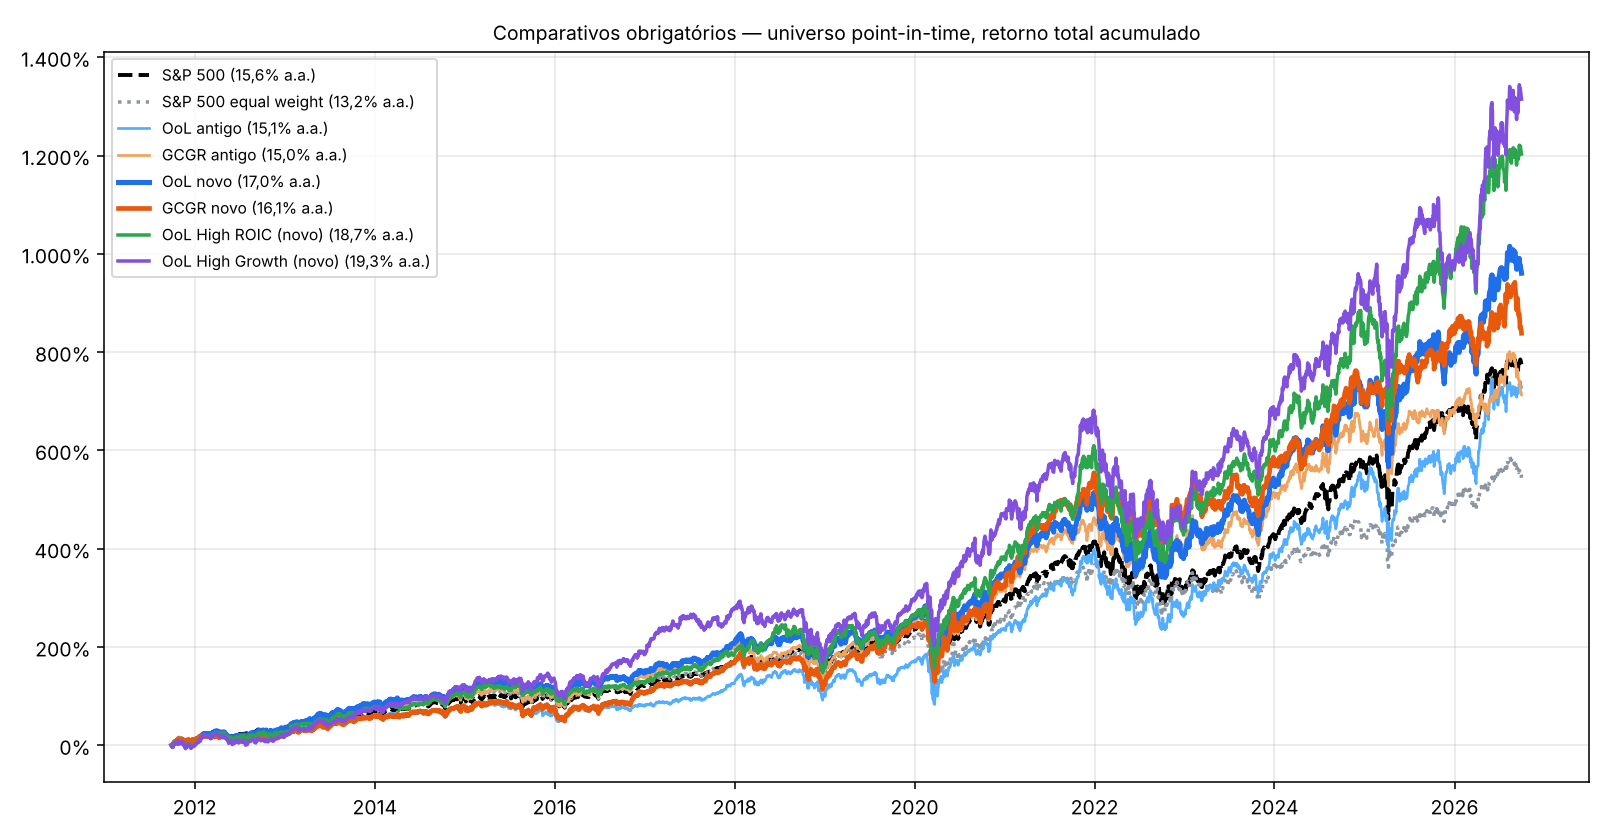
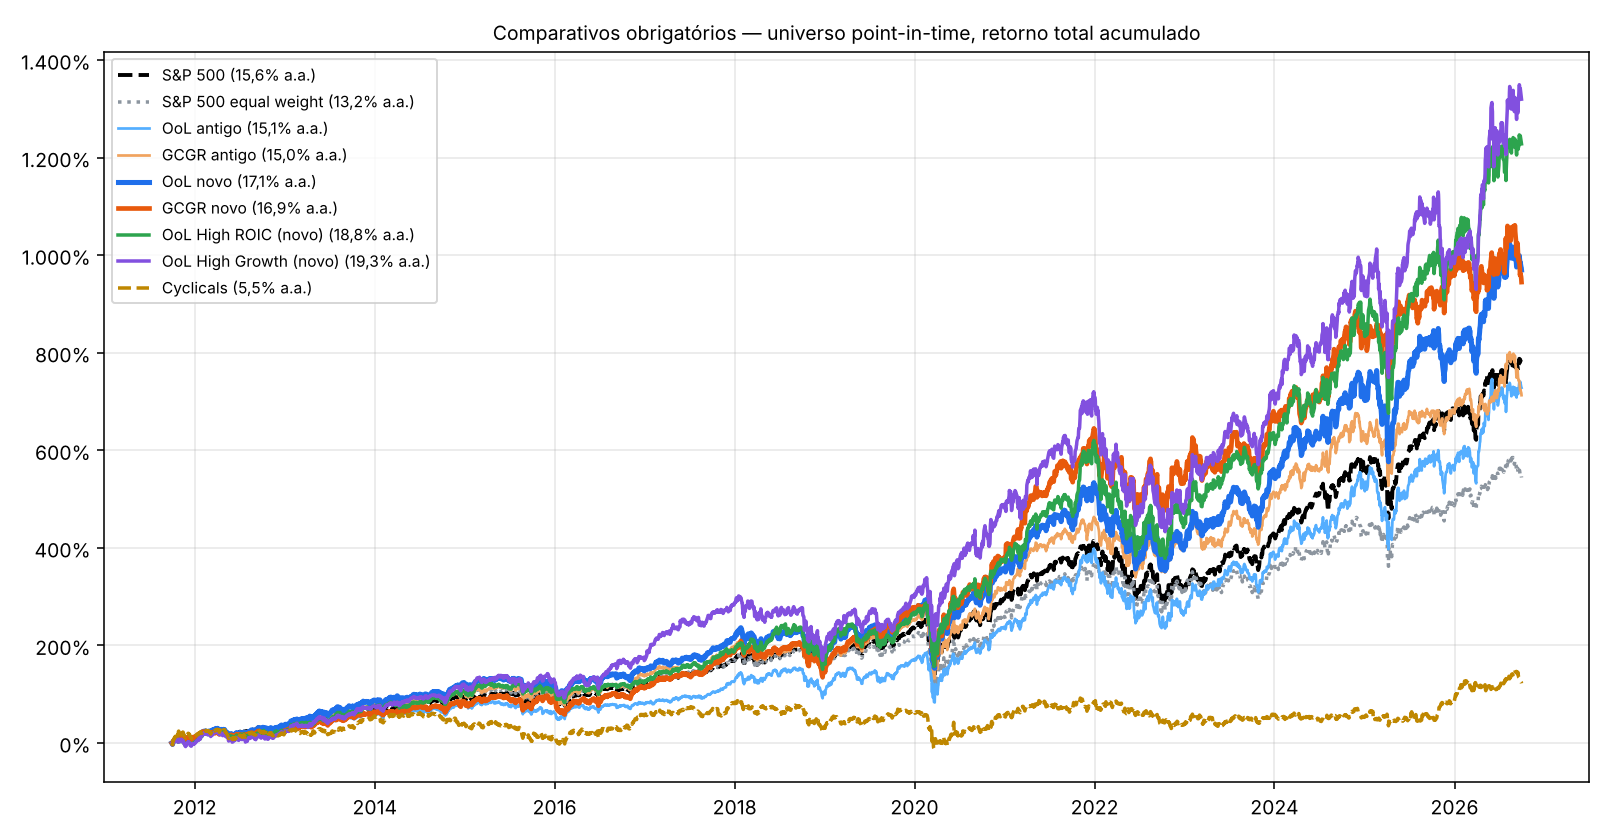
Fixa opcao B como definicao do 'novo' (excecoes a regua de ciclicos) e registra no protocolo
Claude-Session: https://claude.ai/code/session_0163Rqzt5kBig7h4xGh44EtX

diff --git a/price_tracker/backtest/ciclicos.py b/price_tracker/backtest/ciclicos.py
@@ -43,6 +43,9 @@ GROUPS = {'Media': {'Advertising', 'Publishing', 'Cable & Satellite', 'Broadcast
           'Specialized REITs': {'Other Specialized REITs', 'Timber REITs', 'Data Center REITs', 'Self-Storage REITs', 'Telecom Tower REITs'}}
 SUB2GROUP = {sub: g for g, subs in GROUPS.items() for sub in subs}
 DEFENSIVE_SECTORS = {'Consumer Staples', 'Utilities'}
+# Decisao do usuario (2026-11-10, opcao B): passam na regua, mas o ROIC oscila por motivos que nao sao ciclo
+# (pandemia, saida de prejuizo, vencimento de patente); voltam para a OoL/GCGR. Escolha feita olhando o retorno de 2012-2026.
+NOT_CYCLICAL = {'Hotels, Resorts & Cruise Lines', 'Movies & Entertainment', 'Biotechnology', 'Automobile Manufacturers', 'Diversified Chemicals'}
 MULT, MIN_COLLAPSES = 2.0, 2
 
 
@@ -101,7 +104,7 @@ def cyclical_industries():
     p = D / 'ciclicos.csv'
     if not p.exists(): build()
     S = pd.read_csv(p)
-    return set(S[S.ciclico].industry)
+    return set(S[S.ciclico].industry) - NOT_CYCLICAL
 
 
 if __name__ == '__main__':

diff --git a/price_tracker/backtest/benchmarks.py b/price_tracker/backtest/benchmarks.py
@@ -1,7 +1,7 @@
 """Comparativos obrigatorios de toda analise de desempenho (instrucao permanente do usuario, 2026-11-10):
 S&P 500, S&P 500 equal weight, OoL antigo, GCGR antigo, OoL novo, GCGR novo, OoL High ROIC (novo), OoL High Growth (novo).
 Antigo = cortes originais (ROIC 20%/10%, zROIC 0,7). Novo = esboco (ROIC 12%/10%), sem zROIC, sem vestuario e sem subsetores ciclicos
-(regua de ciclicos.py); as acoes de subsetores ciclicos que seriam OoL ou GCGR vao para a classe Cyclicals (desde 2026-11-10).
+(regua de ciclicos.py, menos as excecoes NOT_CYCLICAL); as acoes de subsetores ciclicos que seriam OoL ou GCGR vao para a classe Cyclicals (desde 2026-11-10).
 Universo point-in-time, ROIC oficial (corrigido em 2026-11-10), equal weight, rebalanceamento trimestral.
 Uso: from benchmarks import load_benchmarks, bench_table, bench_plot"""
 import sys, pathlib

diff --git a/price_tracker/PROTOCOLO.md b/price_tracker/PROTOCOLO.md
@@ -84,3 +84,11 @@ amostra documentado na literatura), além de custos e do resultado do teste de l
   o imobilizado de concessionárias (`PublicUtilitiesPropertyPlantAndEquipmentNet`) e de REITs (`RealEstateInvestmentPropertyNet`) não era
   lido; Entergy tinha imobilizado de US$ 0,2–0,5 bi (real ≈ US$ 50 bi) e ROIC de 140–370%. 67 empresas tiveram os dados da SEC rebaixados.
   Todos os testes point-in-time foram refeitos depois disso. Achado de exploração, não de confirmação.
+- 2026-11-10 — **Definição "novo" (exploratória, para testar no Japão sem ajuste):** esboço (ROIC 12%/10%), sem zROIC, sem vestuário/calçados e sem
+  subsetores cíclicos. Régua de cíclico (só fundamentos, histórico completo do ROIC, mediana do subsetor): queda média ≥ 2× a dos defensivos (30%) e
+  ≥ 2 colapsos. Exceções escolhidas pelo usuário depois de ver o retorno (opção B): hotéis/cruzeiros, entretenimento, biotecnologia, montadoras e
+  químicos básicos voltam. Excluídos (vão para a classe Cyclicals): Oil & Gas E&P, Equipment & Services, Drilling, Refining & Marketing; Copper; Steel;
+  Fertilizers & Agricultural Chemicals; Department Stores; Passenger Airlines; Motorcycle Manufacturers; Casinos & Gaming; Interactive Home
+  Entertainment; Multi-line Insurance; Health Care Distributors; Leisure Products; Apparel, Accessories & Luxury Goods; Footwear.
+  Resultado EUA 2012–2026: OoL novo 17,1% a.a.; GCGR novo 16,9%; High ROIC 18,8%; High Growth 19,3%; Cyclicals 5,5%; S&P 500 15,6%.
+  As exceções foram escolhidas olhando o retorno: o ganho delas sobre a régua pura (~0,5 p.p.) é suspeito de sobreajuste.

diff --git a/CLAUDE.md b/CLAUDE.md
@@ -40,5 +40,8 @@ Toda análise de carteira/backtest deve voltar com estas 8 linhas (tabela e grá
 Antigo = cortes originais (ROIC 20%/10%, zROIC 0,7). Novo = esboço (ROIC 12%/10%), sem zROIC, sem vestuário e sem subsetores cíclicos.
 Subsetor cíclico (`backtest/ciclicos.py`): mediana das empresas, histórico completo do ROIC; queda média (média das quedas ano a ano ÷ ROIC médio)
 ≥ 2× a dos setores defensivos (consumo básico + utilidades) **e** ≥ 2 colapsos (ROIC ≤ metade do pico dos 3 anos anteriores); subsetor com 1 empresa
-é decidido na indústria GICS acima.
+é decidido na indústria GICS acima. **Exceções (decisão do usuário, opção B, 2026-11-10):** hotéis/cruzeiros, entretenimento, biotecnologia, montadoras e
+químicos básicos passam na régua mas NÃO são tratados como cíclicos (`NOT_CYCLICAL`). Ficam cíclicos (15): petróleo (E&P, serviços, perfuração, refino),
+cobre, aço, fertilizantes, lojas de departamento, aéreas, motos, cassinos, jogos, seguros multilinha, distribuidoras de saúde, brinquedos.
+Vestuário e calçados também saem (decisão do usuário).
 Usar `price_tracker/backtest/benchmarks.py` (`load_benchmarks()` e `bench_table()`). Se a definição de "novo" mudar, atualizar aqui e no módulo.
